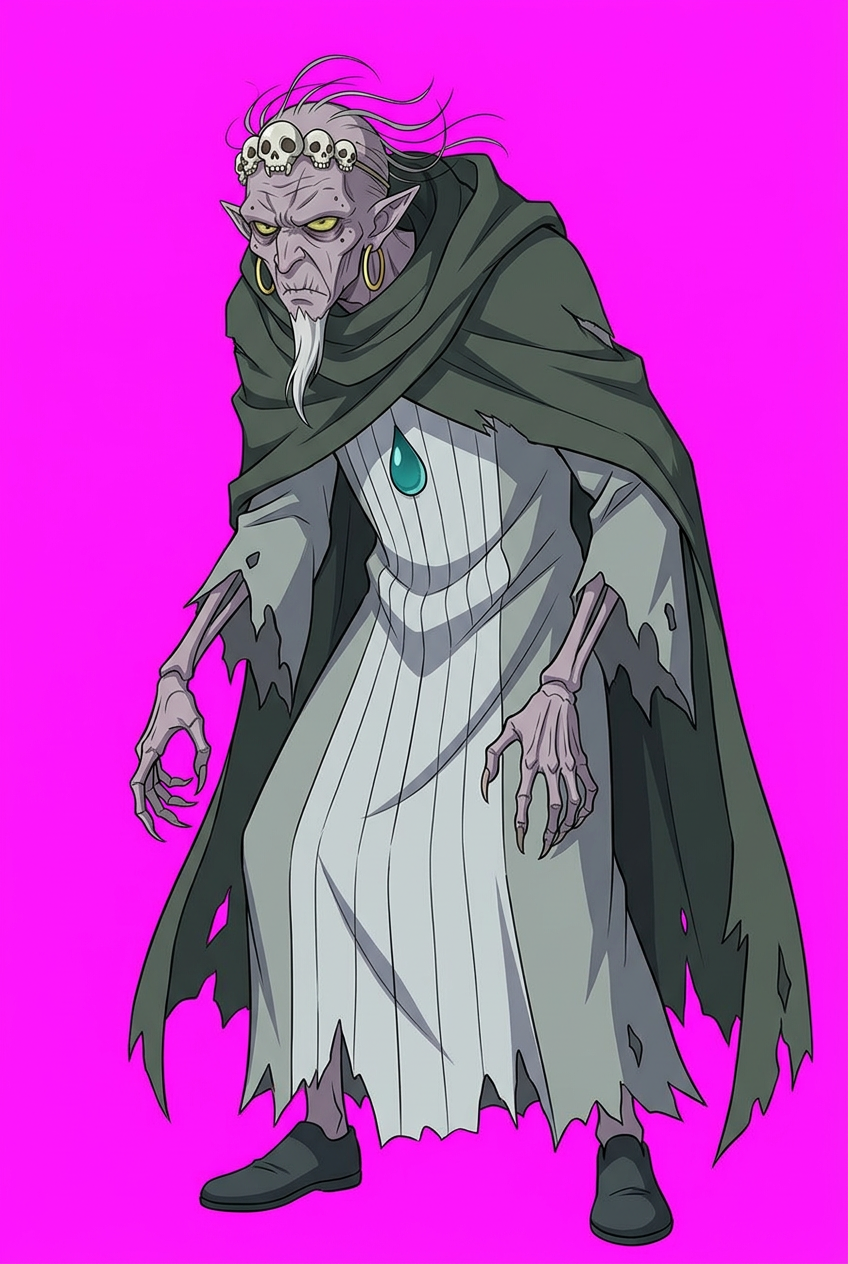
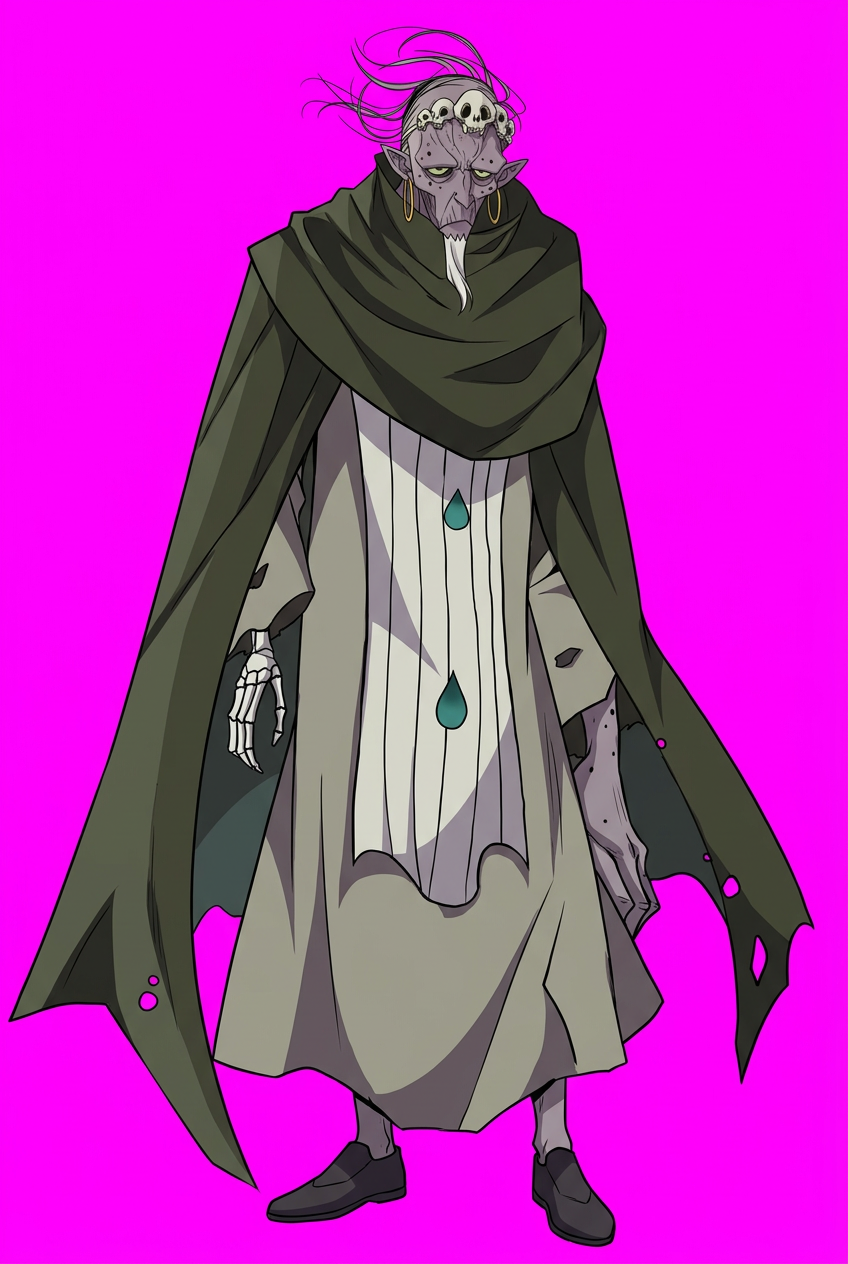
魂殿: 骨幽圣者(二天尊)按漫画375话绘制，剧情NPC

diff --git a/dev/design/漫画复核进度.md b/dev/design/漫画复核进度.md
@@ -115,7 +115,8 @@
 | 柳苍（冥河盟·玄冥宗副宗主） | liucang | 366-21（字幕"玄冥宗·柳苍"）/27/28/32 + fandom 漫画图（折扇另画） | 🆕 按漫画新画 ✅ |
 | 玄冥宗弟子（杂兵） | e_xuanming | 366-21/27 柳苍身后（灰兜帽斗篷、白色长喙面具） | 🆕 按漫画新画；取代自设计的 e_minghe（旧图保留在仓库，游戏不再使用） |
 | 天冥老妖（冥河盟盟主·半圣） | tianming | 378-08（字幕"天冥宗半圣·天冥老妖"）/09/18 + fandom 漫画图 | 🆕 按漫画新画 ✅ |
-| （待确认）378-16 绿斗篷、骷髅头饰的老者 | — | 378-16，与天冥同阵营的另一位半圣 | ❓ 待确认身份与是否纳入 |
+| 骨幽圣者（魂殿二天尊·半圣） | guyou | 375 标题"骨幽圣者"、375-09 字幕"魂殿二天尊"、375-21 全身；378-16 与天冥同阵 | 🆕 按漫画新画 ✅；用户选 B：仅剧情NPC，不战斗（第6章） |
+| 魂殿三天尊（半圣） | — | fandom "Third Tianzun" 漫画378；光头、额刺"叁"、灰肤、白色肩甲 | ⏳ 魂殿批次时询问是否作敌人 |
 
 ## 用户决定（2026-09-27）
 - 凌影：选A——用第63话蒙面兜帽样子。
